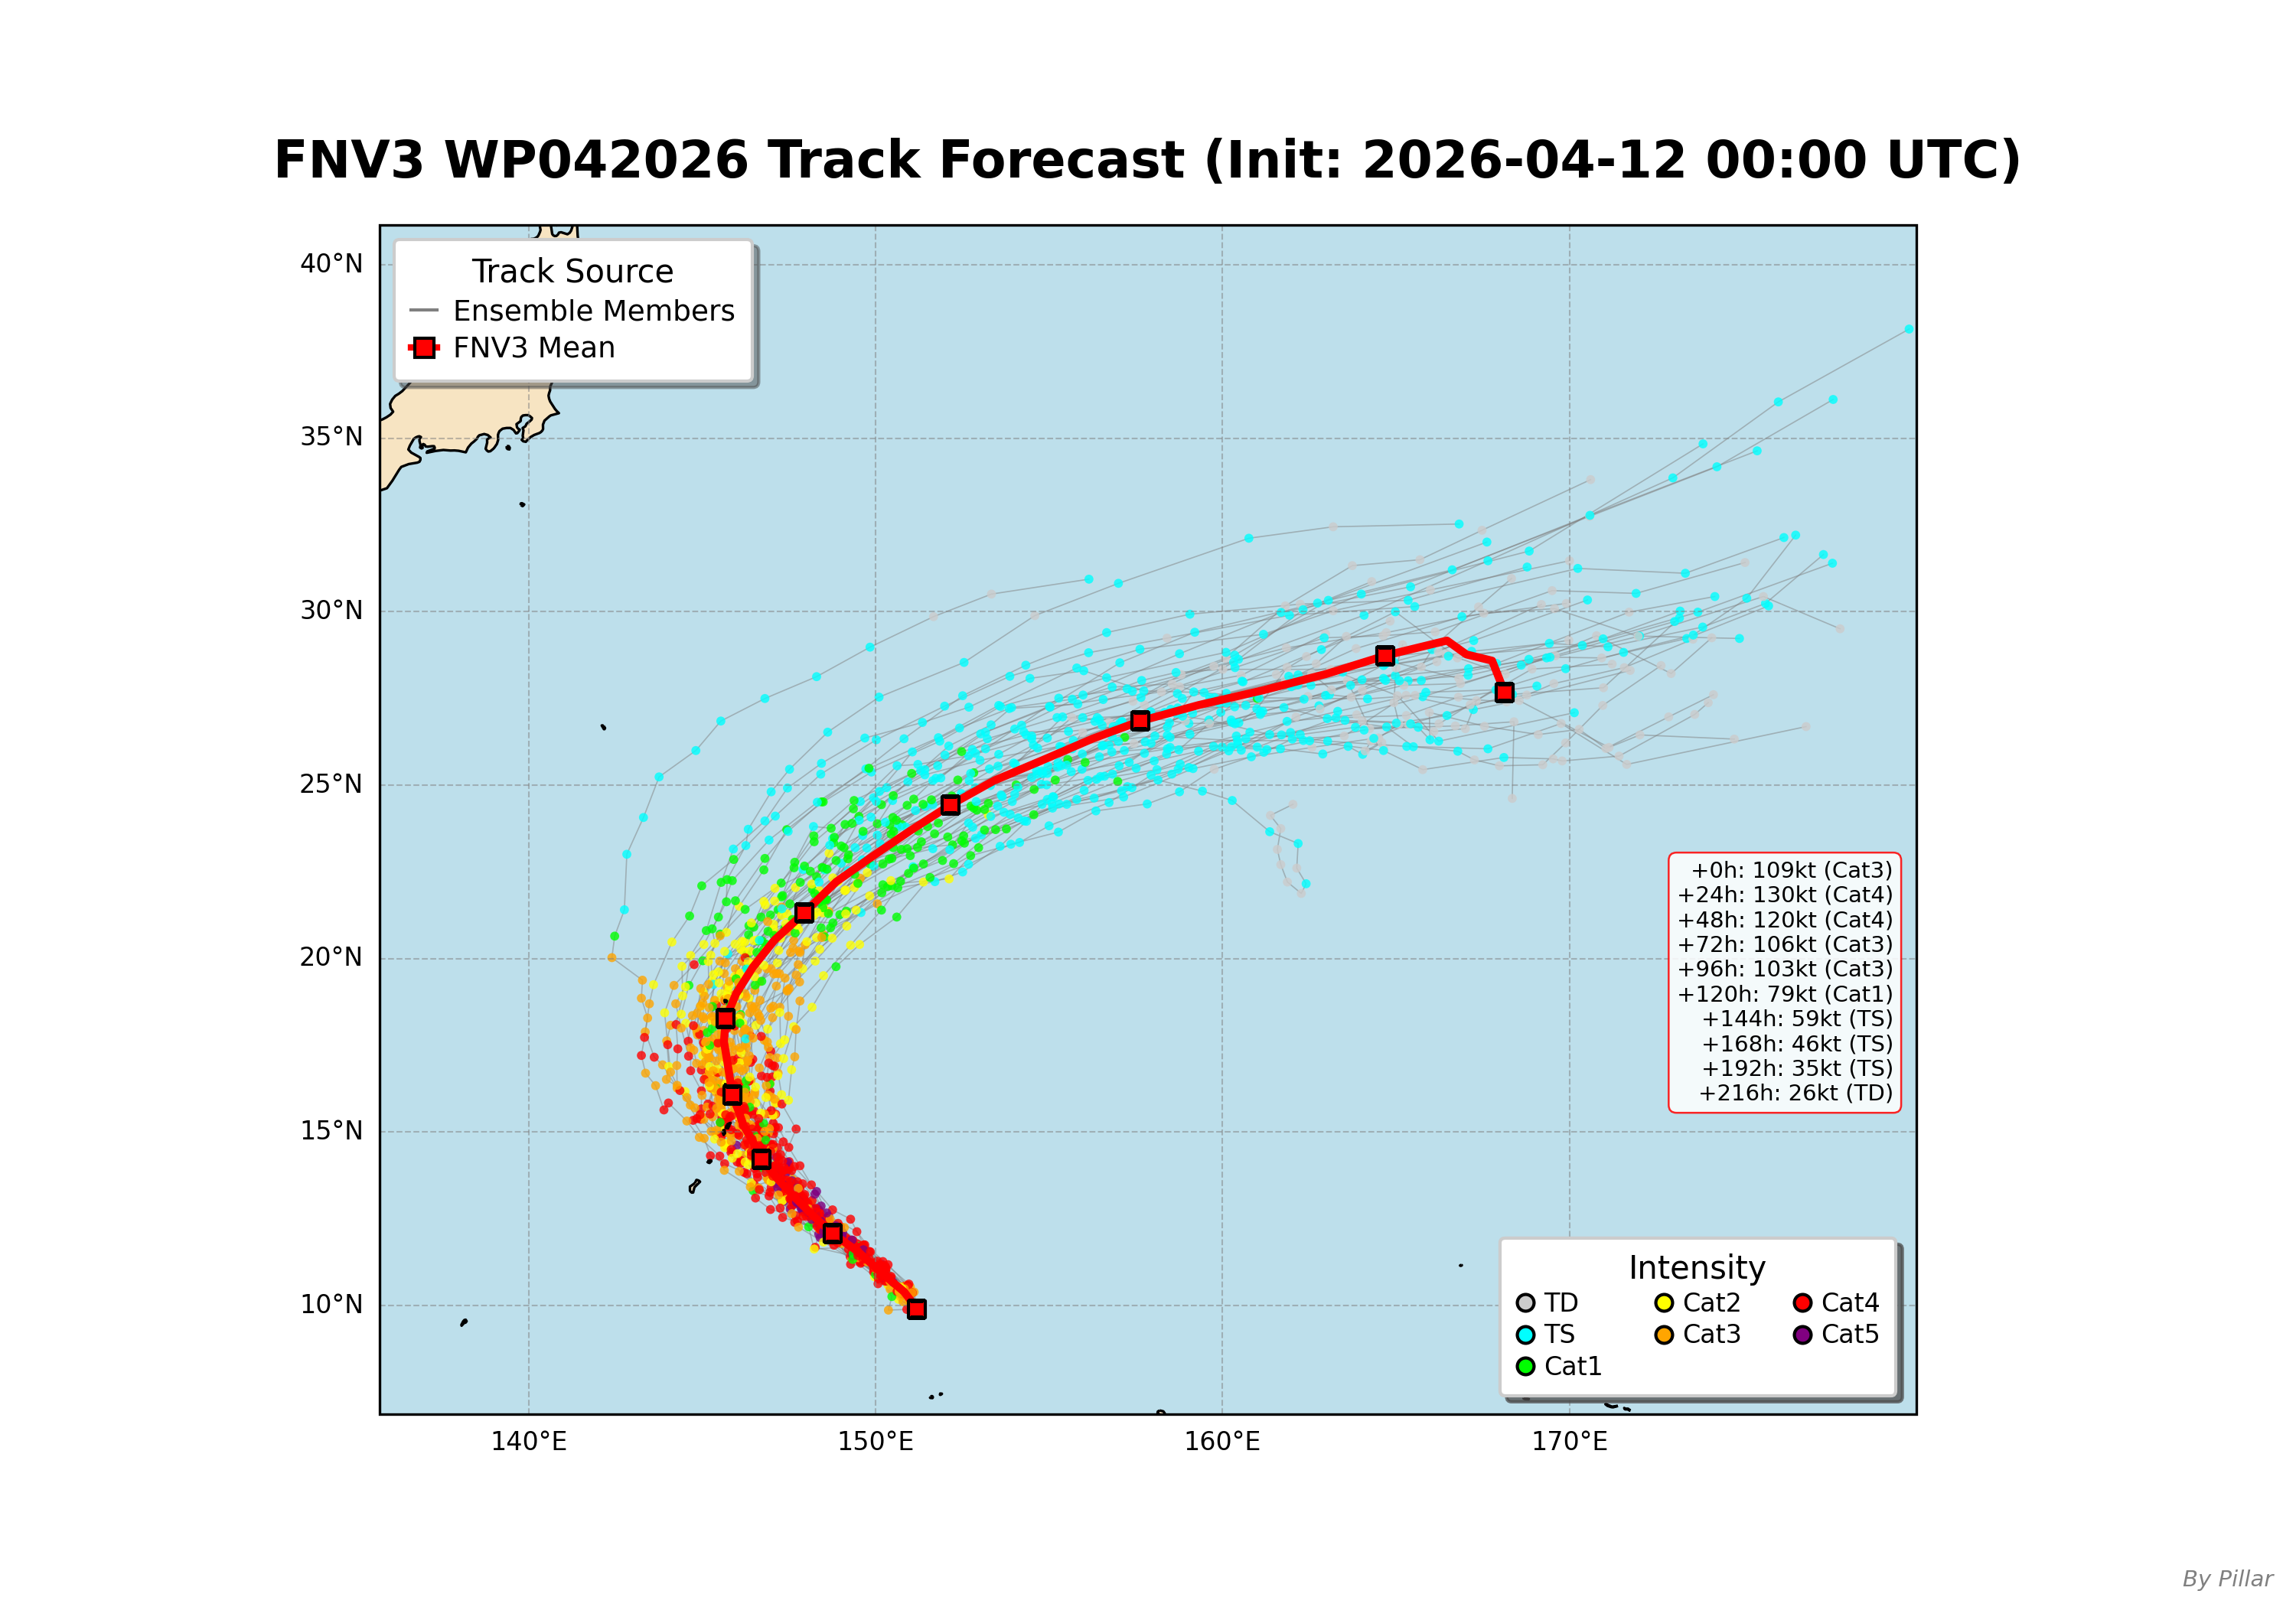
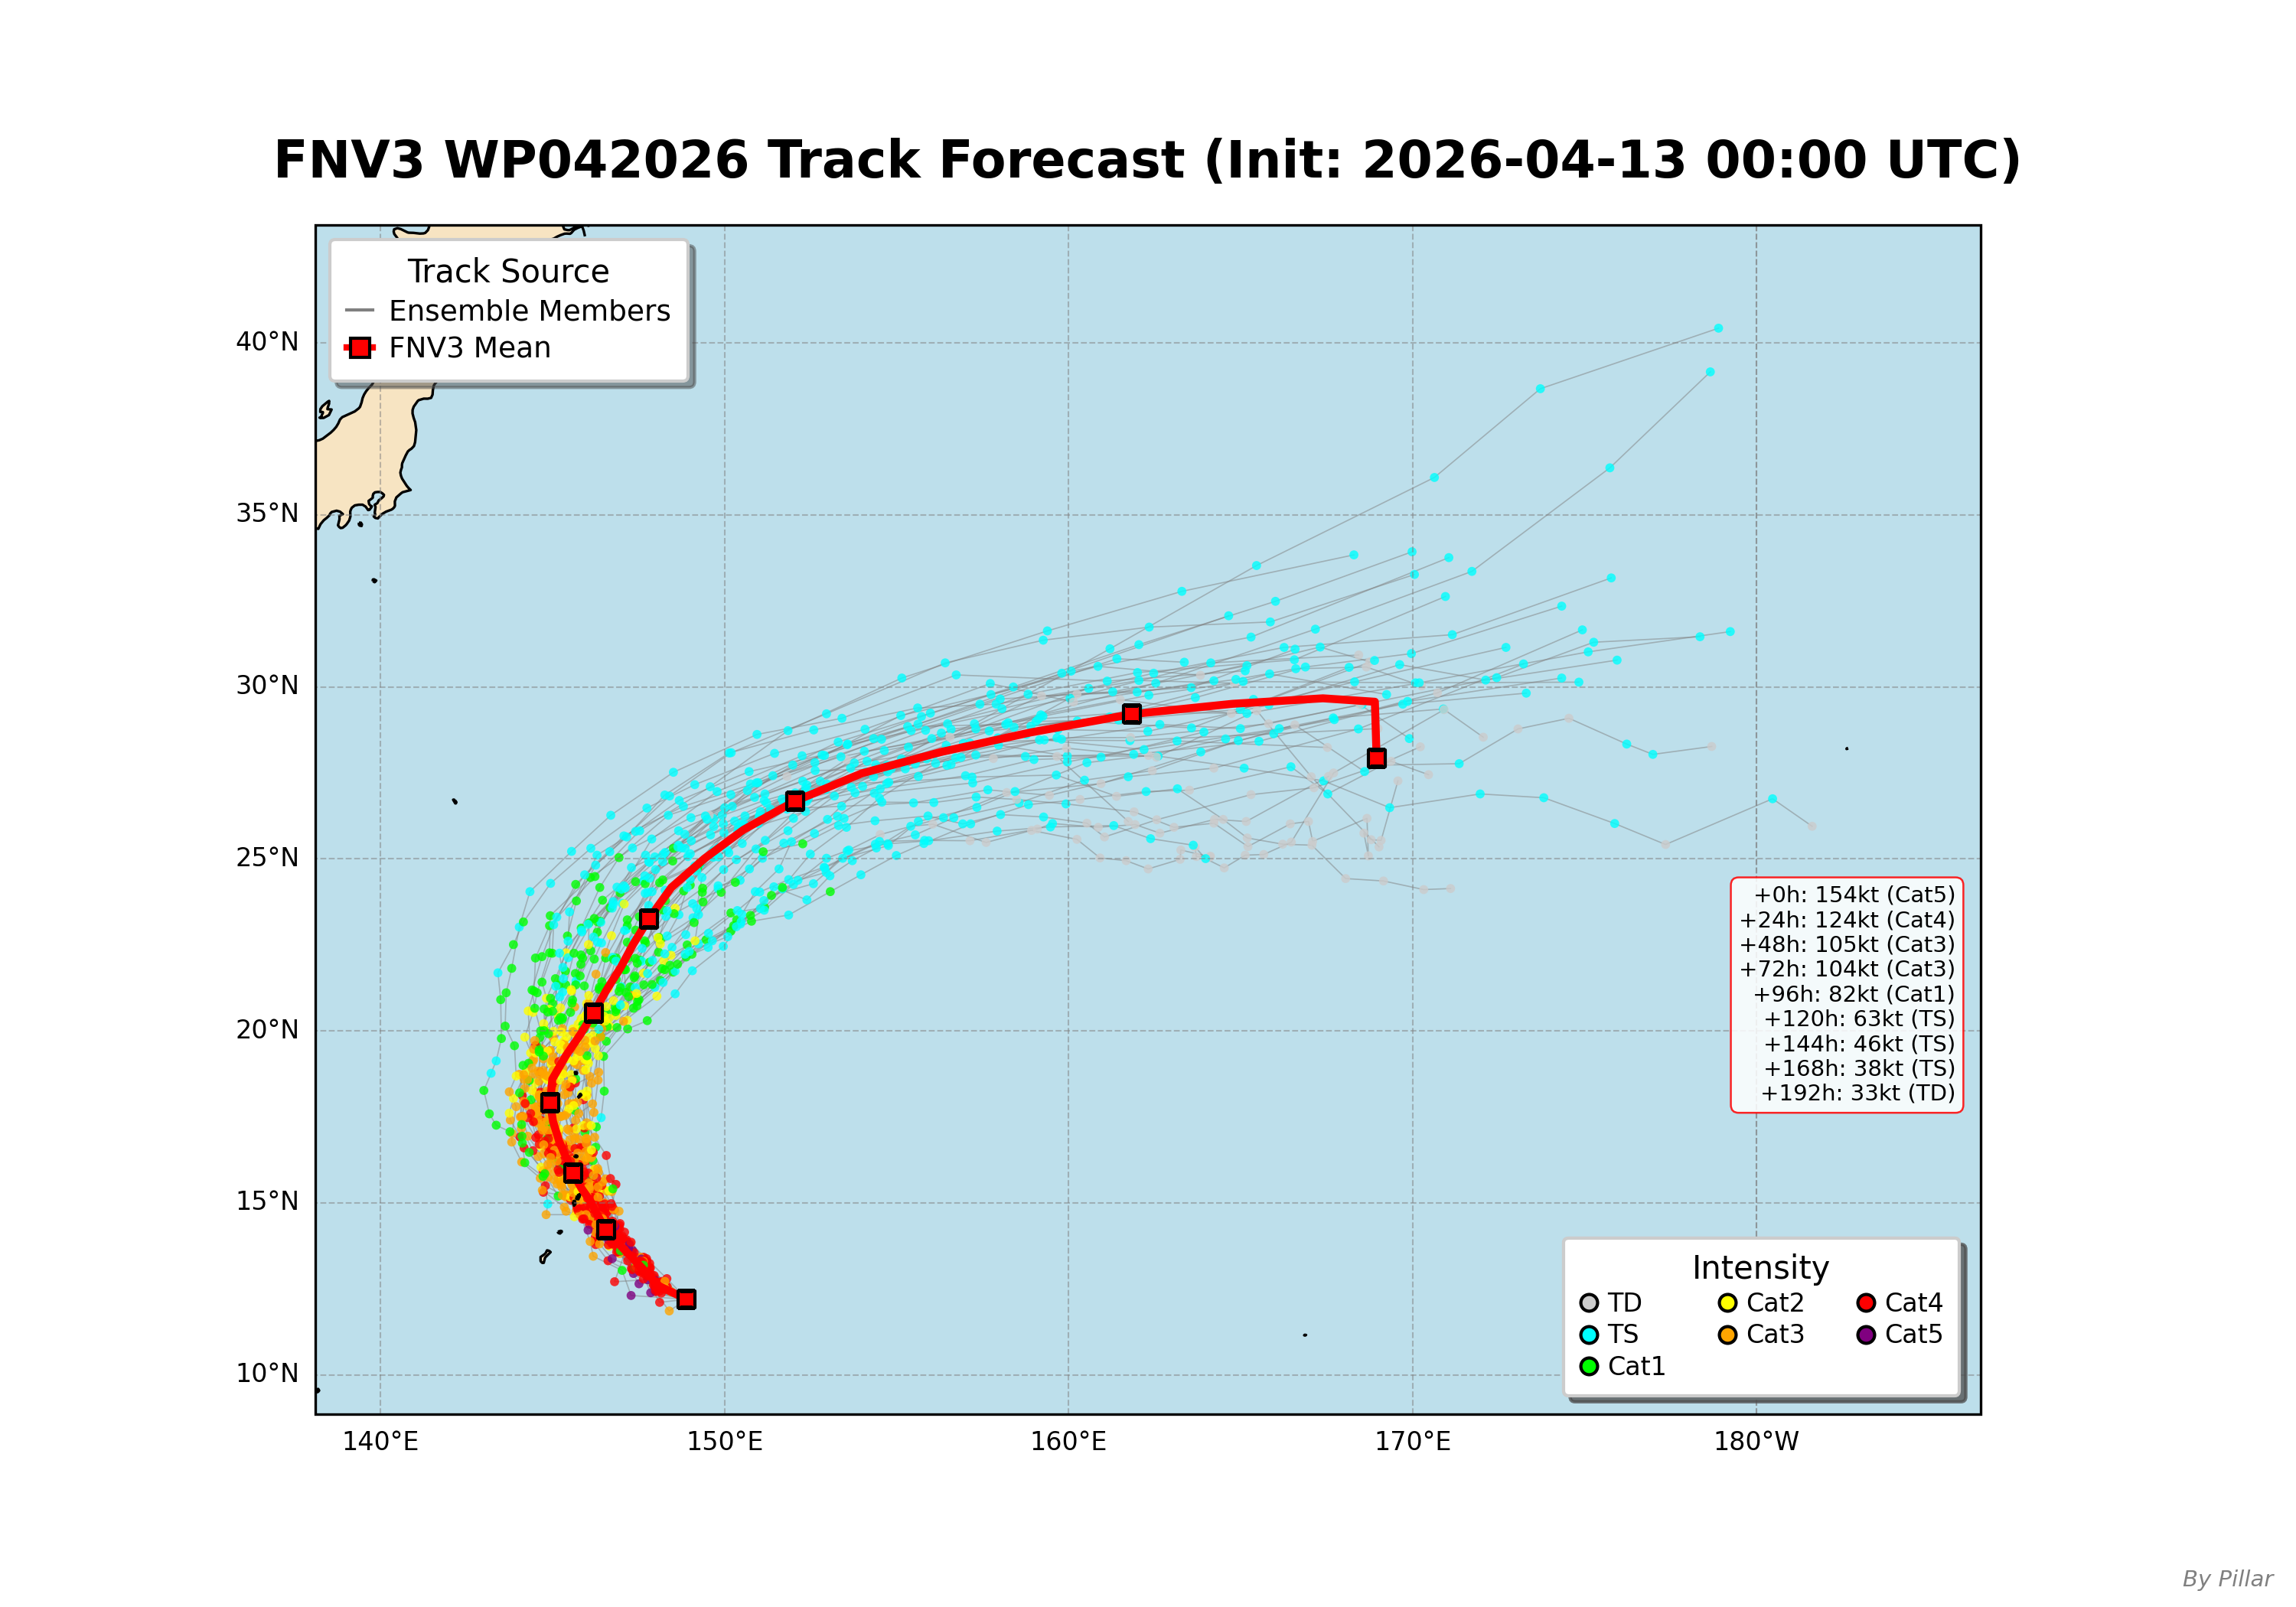
Add files via upload

diff --git a/index.html b/index.html
@@ -689,7 +689,7 @@
                     <div class="subtitle">Real-time FNV3 Ensemble Forecast System</div>
                 </div>
                 <div class="update-badge">
-                    ⏰ Updated: 2026-04-12 16:18:49
+                    ⏰ Updated: 2026-04-13 19:09:24
                 </div>
             </div>
         </header>
@@ -708,34 +708,34 @@
                 <div class="info-grid">
                     <div class="info-item">
                         <div class="info-label">🛰️ Current Time</div>
-                        <div class="info-value">120600 Z</div>
+                        <div class="info-value">130600 Z</div>
                     </div>
                     <div class="info-item">
                         <div class="info-label">📍 Current Position</div>
-                        <div class="info-value">10.3°N, 150.6°E</div>
+                        <div class="info-value">12.7°N, 148.0°E</div>
                     </div>
                     <div class="info-item">
                         <div class="info-label">💨 Maximum Wind</div>
-                        <div class="info-value">130 kt</div>
+                        <div class="info-value">150 kt</div>
                     </div>
                     <div class="info-item">
                         <div class="info-label">🔥 Intensity (Saffir-Simpson)</div>
                         <div class="info-value intensity-value">
-                            <span class="intensity-dot" style="background: #FF0000;"></span>
-                            <span class="legend-label">Cat4</span>
+                            <span class="intensity-dot" style="background: #800080;"></span>
+                            <span class="legend-label">Cat5</span>
                         </div>
                     </div>
                     <div class="info-item mobile-wind-radii" style="grid-column: span 2;">
                         <div class="info-label">🌀 34 kt Wind Radii</div>
-                        <div class="info-value">NE: 215 / SE: 180 / SW: 200 / NW: 180 nm</div>
+                        <div class="info-value">NE: 240 / SE: 180 / SW: 185 / NW: 180 nm</div>
                     </div>
                     <div class="info-item mobile-wind-radii" style="grid-column: span 2;">
                         <div class="info-label">🌀 50 kt Wind Radii</div>
-                        <div class="info-value">NE: 085 / SE: 090 / SW: 105 / NW: 100 nm</div>
+                        <div class="info-value">NE: 085 / SE: 090 / SW: 135 / NW: 090 nm</div>
                     </div>
                     <div class="info-item mobile-wind-radii" style="grid-column: span 2;">
                         <div class="info-label">🌀 64 kt Wind Radii</div>
-                        <div class="info-value">NE: 040 / SE: 050 / SW: 030 / NW: 035 nm</div>
+                        <div class="info-value">NE: 070 / SE: 070 / SW: 045 / NW: 055 nm</div>
                     </div>
                 </div>
 